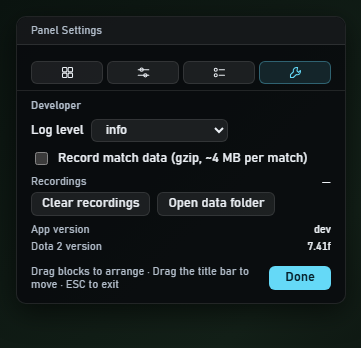
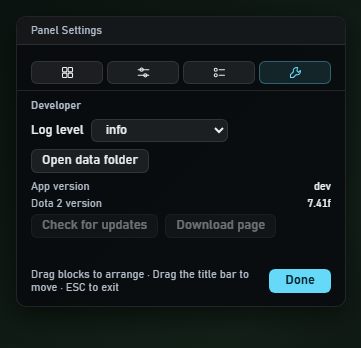
feat: 开发页加检查更新：启动时静默查一次，有新版在版本号旁标 NEW
- 开发页版本号旁边：有新版才出现 NEW vX.Y.Z，悬停看新版对齐的 Dota 版本
- 「检查更新」手动再查，「打开下载页」一直可用（检查失败时的退路）
- 不弹窗、不加红点、不碰托盘；不加"启动时检查"的开关
- 请求从前端发：WebView2 走系统代理，Rust 的 HTTP 库默认不读，
  会出现"浏览器能上、程序连不上"。顺带不用加依赖
- 两个源各 4 秒超时：GitHub Releases API，失败换 jsDelivr 上的 latest.json
- 只在 Tauri 里查：Pages 的 demo 用同一份 ui/js，不替访客请求 GitHub
- 打开下载页走 Rust 命令，地址写死，前端传不进任意 URL

发版流程写进 dev-tools.md，多两步：改 latest.json、Release 标题带 Dota 版本。
README / 项目主页"运行时不联网"改成"唯一的请求是启动时查一次新版本"。
backlog 里这一项删掉。

make_shots.py：Edge 154 的启动器 0.1 秒就返回、截图过一两秒才写出，
原先返回就查文件，于是一张都截不到还删了旧图；改成等文件出现且大小稳定。
开发页两张截图据此重拍。

diff --git a/ui/js/update.js b/ui/js/update.js
@@ -1,0 +1,93 @@
+import { isTauri } from "./source.js";
+
+/** 检查更新。设计见 docs/design/overlay.md 的「检查更新」。
+
+    **请求从前端发**：WebView2 的 fetch 和 Edge 用同一套代理设置（系统代理、PAC），
+    而 Rust 的 HTTP 库默认不读 Windows 系统代理——很多人能上 GitHub 靠的就是它。
+
+    两个源按顺序试，先成功的算数。结果只有三种：
+      { state: "new", version, dota }  有新版（dota 可能是 null，取不到就不显示）
+      { state: "latest" }              已是最新
+      { state: "fail" }                两个源都连不上 */
+const REPO = "shizzhang0/dota2-game-helper2";
+const TIMEOUT_MS = 4000;
+
+const SOURCES = [
+  // ① Releases API。Dota 版本从 Release 标题里取：发版时写成 `v1.3.5 · Dota 7.41f`
+  async (signal) => {
+    const r = await fetch(`https://api.github.com/repos/${REPO}/releases/latest`,
+                          { signal, headers: { Accept: "application/vnd.github+json" } });
+    if (!r.ok) throw new Error(`github ${r.status}`);
+    const j = await r.json();
+    const dota = /Dota\s*([0-9][0-9.]*[a-z]?)/i.exec(j.name || "");
+    return { version: j.tag_name, dota: dota ? dota[1] : null };
+  },
+  // ② jsDelivr 上仓库里的 latest.json，发版时和版本号一起改。给连不上 api.github.com 的人多一条路
+  async (signal) => {
+    const r = await fetch(`https://cdn.jsdelivr.net/gh/${REPO}@main/latest.json`, { signal });
+    if (!r.ok) throw new Error(`jsdelivr ${r.status}`);
+    const j = await r.json();
+    return { version: j.version, dota: j.dota ?? null };
+  },
+];
+
+/** `v1.3.5` / `1.3.5` → [1, 3, 5]；认不出来返回 null */
+function parse(v) {
+  const m = /^v?(\d+)\.(\d+)\.(\d+)/.exec(String(v || "").trim());
+  return m ? m.slice(1).map(Number) : null;
+}
+
+function newer(a, b) {
+  for (let i = 0; i < 3; i++) if (a[i] !== b[i]) return a[i] > b[i];
+  return false;
+}
+
+async function fetchLatest() {
+  for (const src of SOURCES) {
+    const ctl = new AbortController();
+    const timer = setTimeout(() => ctl.abort(), TIMEOUT_MS);
+    try {
+      const r = await src(ctl.signal);
+      if (parse(r.version)) return r;
+    } catch { /* 换下一个源 */ } finally {
+      clearTimeout(timer);
+    }
+  }
+  return null;
+}
+
+/** 最近一次的结果，给开发页建卡片时直接套用（切语言会整卡重建） */
+let last = null;
+let running = null;
+const listeners = new Set();
+
+export function lastUpdate() { return last; }
+export function onUpdate(cb) { listeners.add(cb); return () => listeners.delete(cb); }
+
+/** 查一次。同时只跑一个：启动那次没回来时又点了按钮，就等同一个结果。
+    **只在 Tauri 里查**：浏览器开发和 Pages 的 demo 用的是同一份 ui/js，
+    那里没有"程序版本"，也不该替访客去请求 GitHub。 */
+export function checkUpdate() {
+  if (!isTauri()) return Promise.resolve(null);
+  if (running) return running;
+  for (const cb of listeners) cb({ state: "checking" });
+  running = (async () => {
+    const [latest, v] = await Promise.all([
+      fetchLatest(),
+      window.__TAURI__.core.invoke("get_versions").catch(() => ({})),
+    ]);
+    const mine = parse(v.app);
+    if (!latest || !mine) last = { state: "fail" };
+    else if (newer(parse(latest.version), mine)) {
+      last = { state: "new", version: latest.version.replace(/^v?/, "v"), dota: latest.dota };
+    } else last = { state: "latest" };
+    for (const cb of listeners) cb(last);
+    return last;
+  })().finally(() => { running = null; });
+  return running;
+}
+
+/** 用默认浏览器打开 Releases 页。地址写死在 Rust 那边，前端传不进任意 URL。 */
+export function openReleasePage() {
+  if (isTauri()) window.__TAURI__.core.invoke("open_release_page");
+}

diff --git a/ui/js/editor.js b/ui/js/editor.js
@@ -1,5 +1,6 @@
 import { SHOW_KEYS, DEFAULTS, loadSettings, saveSettings } from "./settings.js";
 import { isTauri, fetchConstant } from "./source.js";
+import { checkUpdate, lastUpdate, onUpdate, openReleasePage } from "./update.js";
 import { icon, CELL_ICON } from "./icons.js";
 import { t, loadLang, LANGS } from "./i18n.js";
 
@@ -128,6 +129,36 @@ function initRecords(stat, btn) {
   refresh();
 }
 
+/** 开发区的检查更新：版本号旁边的 NEW、两个按钮、一行状态。设计见 design/overlay.md「检查更新」。
+
+    启动那次由 main.js 发起，这里只负责显示——**卡片可能在结果回来之前或之后建**，
+    切语言还会整卡重建，所以建的时候先套用 `lastUpdate()`，再订阅之后的变化。
+    订阅在模块级只留一份：重建时先退掉旧的，不然每切一次语言多挂一个监听。 */
+let offUpdate = null;
+function initUpdate(badge, msg, checkBtn, relBtn) {
+  if (!isTauri()) { checkBtn.disabled = relBtn.disabled = true; return; }
+  const text = { checking: "card.updChecking", latest: "card.updLatest",
+                 new: "card.updNew", fail: "card.updFail" };
+  const show = (r) => {
+    if (!r) return;
+    msg.textContent = text[r.state] ? t(text[r.state]) : "";
+    checkBtn.disabled = r.state === "checking";
+    if (r.state === "new") {
+      badge.hidden = false;
+      badge.textContent = `NEW ${r.version}`;
+      badge.title = r.dota ? `${t("card.updDota")} ${r.dota}` : "";
+    } else if (r.state === "latest") {
+      badge.hidden = true;
+    }
+    // 失败时 NEW 不动：之前查到过的新版不会因为这次没连上就不存在了
+  };
+  offUpdate?.();
+  offUpdate = onUpdate(show);
+  show(lastUpdate());
+  checkBtn.addEventListener("click", () => checkUpdate());
+  relBtn.addEventListener("click", openReleasePage);
+}
+
 export async function initEditor(cardEl, onDone, onReset) {
   card = cardEl; doneCb = onDone; resetCb = onReset;
   await build(await loadSettings());
@@ -188,8 +219,14 @@ async function build(s) {
         ${s.devTools ? `<button id="edClear" type="button">${t("card.clearRec")}</button>` : ""}
         <button id="edDir" type="button">${t("card.openDir")}</button>
       </div>
-      <div class="ed-row ed-ver">${t("card.appVersion")}<b id="edAppVer">—</b></div>
+      <div class="ed-row ed-ver">${t("card.appVersion")}<b id="edAppVer">—</b><span
+        class="ed-new" id="edNew" hidden></span></div>
       <div class="ed-row ed-ver">${t("card.dotaVersion")}<b id="edDotaVer">—</b></div>
+      <div class="ed-row">
+        <button id="edUpd" type="button">${t("card.checkUpdate")}</button>
+        <button id="edRel" type="button">${t("card.openRelease")}</button>
+      </div>
+      <div class="ed-upd-msg" id="edUpdMsg"></div>
     </div>
     <div class="ed-foot">
       <span class="ed-hint">${t("card.hint")}</span>
@@ -294,6 +331,7 @@ async function build(s) {
   });
   if (record) initRecords($("edRecStat"), $("edClear"));
   else recRefresh = null;
+  initUpdate($("edNew"), $("edUpdMsg"), $("edUpd"), $("edRel"));
   $("edDone").addEventListener("click", doneCb);
 
   const bar = card.querySelector(".ed-bar");

diff --git a/ui/js/main.js b/ui/js/main.js
@@ -8,6 +8,7 @@ import { initPanel, render, enableDrag, applyLayout } from "./render.js";
 import { WardTracker, deadTowers } from "./minimap.js";
 import { loadSettings, onSettingsChange } from "./settings.js";
 import { initEditor, setEditorOpen } from "./editor.js";
+import { checkUpdate } from "./update.js";
 
 // 正式版没有控制台也开不出 devtools，前端异常必须转发给 Rust 写进日志
 const send = (lv, m) => {
@@ -99,6 +100,9 @@ function resetLayout(scale = cfg.scale ?? 1) {
   saveLayout(layout);
 }
 await initEditor(document.getElementById("editor"), exitEdit, resetLayout);
+// 启动时静默查一次新版本，结果只显示在开发页的版本号旁边。不等它：
+// 连不上要等满超时，而覆盖层不该因此晚一步出来（只在 Tauri 里查，见 update.js）
+checkUpdate();
 // 不判断 editMode：锁定态窗口穿透且没有焦点，压根收不到 keydown，
 // 只有编辑态才会走到这里；靠本地状态位反而可能因事件漏收而彻底失灵。
 addEventListener("keydown", (ev) => { if (ev.key === "Escape") exitEdit(); });

diff --git a/ui/css/overlay.css b/ui/css/overlay.css
@@ -376,6 +376,15 @@ html, body {
   margin-left: auto; font-weight: 400; color: var(--fg);
   font-variant-numeric: tabular-nums;
 }
+/* 版本号旁边的 NEW：查到新版才出现。借「完成」按钮那个青色，不另起一个颜色 */
+.ed-new {
+  margin-left: 6px; padding: 0 5px; border-radius: 4px;
+  background: var(--k-chance); color: #06202B; font-size: 10px; font-weight: 600;
+  cursor: default;
+}
+/* 状态单独一行：和两个按钮挤一行时英文的"Can't reach the update server"放不下 */
+.ed-upd-msg { color: var(--dim); font-size: 11px; min-height: 1em; }
+.editor button:disabled { opacity: .45; cursor: default; }
 .editor option { background: #0E1319; color: var(--fg); }
 .editor select, .editor button {
   background: rgba(255, 255, 255, .08); color: var(--fg);

diff --git a/site/index.html b/site/index.html
@@ -166,9 +166,9 @@
     <tr>
       <td class="no"><span lang="en">Does not</span><span lang="zh">它不做</span></td>
       <td lang="en">read game memory · modify game files · inject into the process ·
-          hook graphics APIs · simulate input · touch the network at runtime</td>
+          hook graphics APIs · simulate input · phone home (the only request is a version check on startup)</td>
       <td lang="zh">读游戏内存 · 修改游戏文件 · 注入进程 ·
-          hook 图形 API · 模拟任何输入 · 运行时联网</td>
+          hook 图形 API · 模拟任何输入 · 后台联网（唯一的请求是启动时查一次新版本）</td>
     </tr>
     <tr>
       <td class="yes"><span lang="en">Does</span><span lang="zh">它只做</span></td>

diff --git a/tools/make_shots.py b/tools/make_shots.py
@@ -15,7 +15,7 @@
 历史上编辑态那张一直截不出来（卡片比可用窗口高，`PrintWindow` 只渲染屏上部分）。
 这条路绕开了那个坑：headless 不走 PrintWindow，而且页签把卡片压到了 316px。
 """
-import argparse, http.server, json, os, shutil, socketserver, subprocess, sys, threading
+import argparse, http.server, json, os, shutil, socketserver, subprocess, sys, threading, time
 from pathlib import Path
 
 ROOT = Path(__file__).resolve().parent.parent
@@ -204,6 +204,11 @@ def chrome_offset(browser, work):
         subprocess.run([browser, "--headless=new", "--disable-gpu", "--window-size=800,600",
                         "--virtual-time-budget=4000", f"http://127.0.0.1:{PORT}/probe.html"],
                        capture_output=True, timeout=60)
+        # Edge 的启动器可能先返回（见 shoot），等页面把视口报回来再关服务器
+        for _ in range(40):
+            if "viewport" in REPORT:
+                break
+            time.sleep(0.25)
     finally:
         httpd.shutdown()
         httpd.server_close()
@@ -248,6 +253,15 @@ def shoot(browser, url, dest, w, h, dx, dy):
          f"--screenshot={dest}", f"--window-size={w + dx},{h + dy}",
          "--virtual-time-budget=20000", url],
         capture_output=True, timeout=180)
+    # **Edge 154 的启动器会立刻返回**（实测 0.1 秒），截图由后台进程过一两秒才写出来。
+    # 原先返回就查文件，于是一张都截不到、还把旧图删了。等它出现且大小不再变。
+    last = -1
+    for _ in range(120):
+        size = dest.stat().st_size if dest.exists() else -1
+        if size > 0 and size == last:
+            break
+        last = size
+        time.sleep(0.5)
     if dest.exists():
         crop(dest, w, h)
     return dest.exists()

diff --git a/src-tauri/src/settings.rs b/src-tauri/src/settings.rs
@@ -87,6 +87,17 @@ pub fn set_settings(app: tauri::AppHandle, value: serde_json::Value) {
     let _ = app.emit("settings", merged); // 覆盖层监听后实时生效
 }
 
+/// 用默认浏览器打开 Releases 页，给开发区的「打开下载页」。
+///
+/// **地址写死在这里**，前端只能说"开它"，传不进任意 URL。
+/// `explorer <url>` 交给系统的默认浏览器，和 open_data_dir 同一个办法。
+#[tauri::command]
+pub fn open_release_page() {
+    let _ = std::process::Command::new("explorer")
+        .arg("https://github.com/shizzhang0/dota2-game-helper2/releases/latest")
+        .spawn();
+}
+
 /// 开配置目录**本身**，不是它下面某一个子目录。`records/`、`logs/` 和两份设置文件
 /// 是同级兄弟，给每个配一个按钮等于把文件树抄到卡片上；开父目录一次全覆盖，
 /// 而且是唯一通向日志的入口——理由见 design/overlay.md 的「设置」里的「开发区」那条。

diff --git a/src-tauri/src/main.rs b/src-tauri/src/main.rs
@@ -132,6 +132,7 @@ fn main() {
             settings::get_settings,
             settings::set_settings,
             settings::open_data_dir,
+            settings::open_release_page,
             record::records_stat,
             record::clear_records,
             log::log_front,

diff --git a/docs/backlog.md b/docs/backlog.md
@@ -27,29 +27,6 @@
 现在写死 Alt（`GetAsyncKeyState(VK_MENU)`）与 `Ctrl+Alt+F10`（编辑态）。
 当初明确说"这一版先不做"。
 
-### 检查更新 —— 方案已定，先不做（2026-09-23）
-
-**只在用户点了之后查一次，不在启动时自动查。** 托盘菜单加一项「检查更新（当前 vX.Y.Z）」：
-点了之后请求一次 GitHub Releases API
-（`api.github.com/repos/shizzhang0/dota2-game-helper2/releases/latest`），
-拿 `tag_name` 和程序自己的版本号比，结果显示在托盘或开发区（如"有新版本 v1.3.5"），
-再点一次才用默认浏览器打开 Releases 页面。
-
-**为什么是"点了才查"**：README 和项目主页都把"运行时不联网、装完就能断网用"写成了
-对外承诺（v1.2 前后专门删掉了 OpenDota 请求和 `reqwest`）。启动时自动查会打破它，
-而这个覆盖层一局才开一次、版本也不常发，收益撑不起。用户主动点的那一次请求可以接受，
-但**README 那一行要同步改**，比如"❌ 后台联网（只有点了检查更新才会发一次请求）"。
-
-不需要自己的服务器：Releases API 不要 key，未认证按 IP 每小时 60 次，手动点绰绰有余。
-HTTP 客户端二选一：Rust 侧加一个小库，或前端直接 `fetch`（GitHub API 支持跨域，
-但要先确认 `tauri.conf.json` 的 CSP 放行 `api.github.com`）。
-
-**比较过、没选的**：
-- 只打开 Releases 页面、程序一个请求都不发——最保守，但要用户自己比版本号
-- GitHub Pages 放一个 `version.json`——没有频率限制，但每次发版多一步
-- Tauri 官方 updater 插件（带签名的 `latest.json`，能自动下载安装）——要签名密钥，
-  且 Windows 上要求 nsis/msi 安装包，得先做下面「安装包」那条
-
 ---
 
 ## 开发向

diff --git a/README.md b/README.md
@@ -167,7 +167,7 @@ draggable, and a settings card floats up. The card has four pages, switched by i
 | ![Display](docs/images/card-show.png) | ![Panel](docs/images/card-panel.png) |
 | **Display** — a toggle for each of the nine cells | **Panel** — always show, language, scale, opacity, backdrop, map size, reset |
 | ![Legend](docs/images/card-legend.png) | ![Developer](docs/images/card-dev.png) |
-| **Legend** — what every colour and shape on the map means | **Developer** — log level, data folder, versions |
+| **Legend** — what every colour and shape on the map means | **Developer** — log level, data folder, versions, update check |
 
 Changes apply immediately, no restart. The card itself can be dragged by its title bar.
 
@@ -211,7 +211,7 @@ This is a **pure receiver**. That isn't a promise, it's a checklist you can veri
 | ❌ Modify game files | ✅ Write one GSI config file (the mechanism Valve built for this) |
 | ❌ Inject into the process / hook graphics APIs | ✅ Be an ordinary transparent always-on-top window |
 | ❌ Simulate any input | ✅ Passively poll the Alt key state |
-| ❌ Touch the network at runtime | ✅ Keep every constant locally — works offline once installed |
+| ❌ Phone home in the background | ✅ Keep every constant locally — works offline once installed. The one request: **on startup it asks GitHub once whether a newer version exists**, sends no personal data, and silently gives up if it can't reach it |
 
 GSI is an official Valve interface; Logitech and Razer drivers use the same mechanism.
 **During a match it only pushes your own data**, so by design it cannot be used to
